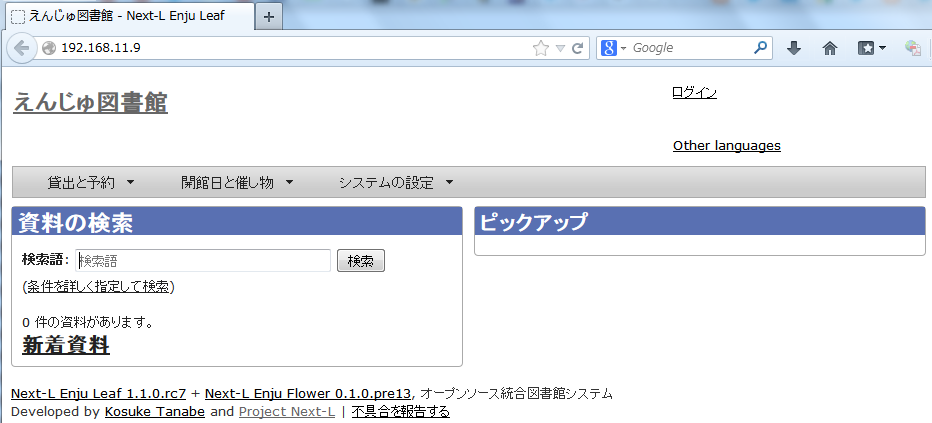
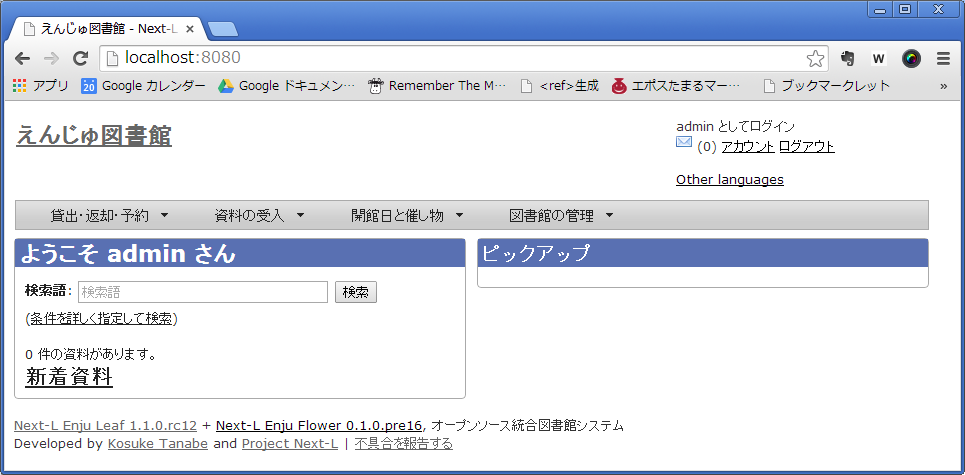
インストールマニュアル：あたらしい仮想マシンの確認方法を追加し、古い仮想マシンの確認方法も追加した。

diff --git a/_includes/enju_install_vm/install.md b/_includes/enju_install_vm/install.md
@@ -228,24 +228,6 @@ Enju仮想マシンを起動し，Ubuntuにログインします。
 
    ![現在のパスワード，新しいパスワード，新しいパスワード（確認）の順に入力](assets/images/image_install_037.png)
 
-<a name="4-4-3" />
-
-### 4-4-3 IPアドレスの確認
-
-割り当てられたIPアドレスを確認します。
-
-1. vagrant@precise64:~$ に続いて以下のコマンドを入力します。
-
-       ifconfig
-
-   etho (または eth1)のところに書かれている inet addr: の値をメモします。以下の画面では，<code>192.168.11.9</code>です。  
-
-      ![inet addr: の値をメモ](assets/images/image_install_041.png)
-
-   <div class="alert alert-info">
-   もし，画面が流れていって，読めない場合には <kbd>ifconfig | more</kbd> と入力してください。
-   </div>
-
 {::comment}
 
 2. vagrant@precise64:~$ に続いて以下のコマンドを入力します。
@@ -269,10 +251,28 @@ Next-L Enjuが正しく起動したかどうかは，サーバ上だけではわ
    右「Ctrl」キーを押します。
    ウィンドウ右下の矢印が![グレーの矢印](assets/images/image_install_right_ctrl_g.png)（グレーの矢印）のようにグレー色になります。
 2. ブラウザからアクセスします。Windows上でWebブラウザを立ち上げます。
-3. アドレス欄に，上の「■IPアドレスの確認」で確認したIPアドレスを使って「http://仮想マシンのIPアドレス」（例 ```http://192.168.11.9``` ブラウザによっては ```192.168.11.9``` でも可）と入力してください。
+3. アドレス欄に```http://localhost:8080```と入力してください（ブラウザによっては ```localhost:8080``` でも可）。※ 注意！ Enju_Leaf 1.1.0.rc7版の仮想マシンではやり方が異なりますので注意してください。
+![ブラウザで起動の確認](assets/images/image_install_078_4.png)
 
-![http://仮想マシンのIPアドレス](assets/images/image_install_078_4.png)
-       
+	<a name="4-5-rc7" />
+
+	<div class="alert alert-info" markdown="1"> 
+	【Memo】Enju_leaf 1.1.0.rc7 の仮想マシンの場合：
+
+	1. vagrant@precise64:~$ に続いて以下のコマンドを入力し、仮想マシンのIPアドレスを確認します。
+
+	       ifconfig
+
+		etho (または eth1)のところに書かれている inet addr: の値をメモします。以下の画面では，<code>192.168.11.9</code>です。
+		もし，画面が流れていって，読めない場合には ```ifconfig | more``` と入力してください。
+
+		![inet addr: の値をメモ](assets/images/image_install_041.png)
+
+	2. アドレス欄に，上の「■IPアドレスの確認」で確認したIPアドレスを使って「http://仮想マシンのIPアドレス」（例 ```http://192.168.11.9``` ブラウザによっては ```192.168.11.9``` でも可）と入力してください。
+
+		![ブラウザで起動の確認](assets/images/image_install_078_4_rc7.png)
+	</div>
+
 これで，同じPC上からも，また別のマシンからもEnjuサーバに対してアクセスすることが可能になりました。このようにアクセスしても正しく画面が表示されない場合には，何らかの設定ミスがあると思われますので，再度インストールしなおしてください。
 
 <a name="4-6" />
